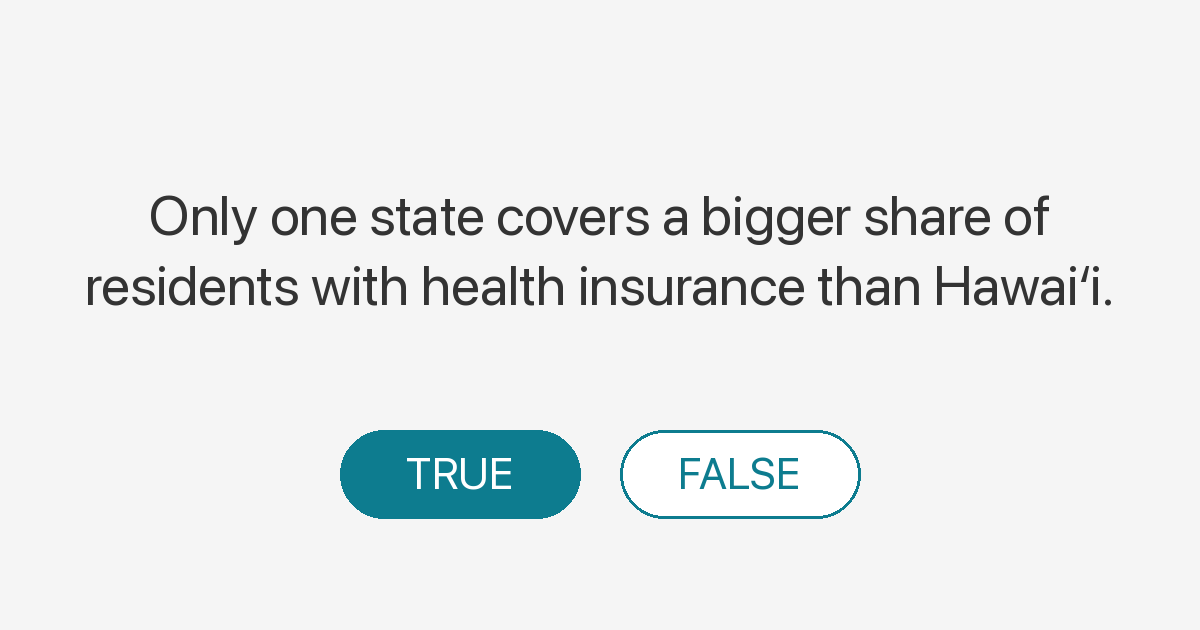
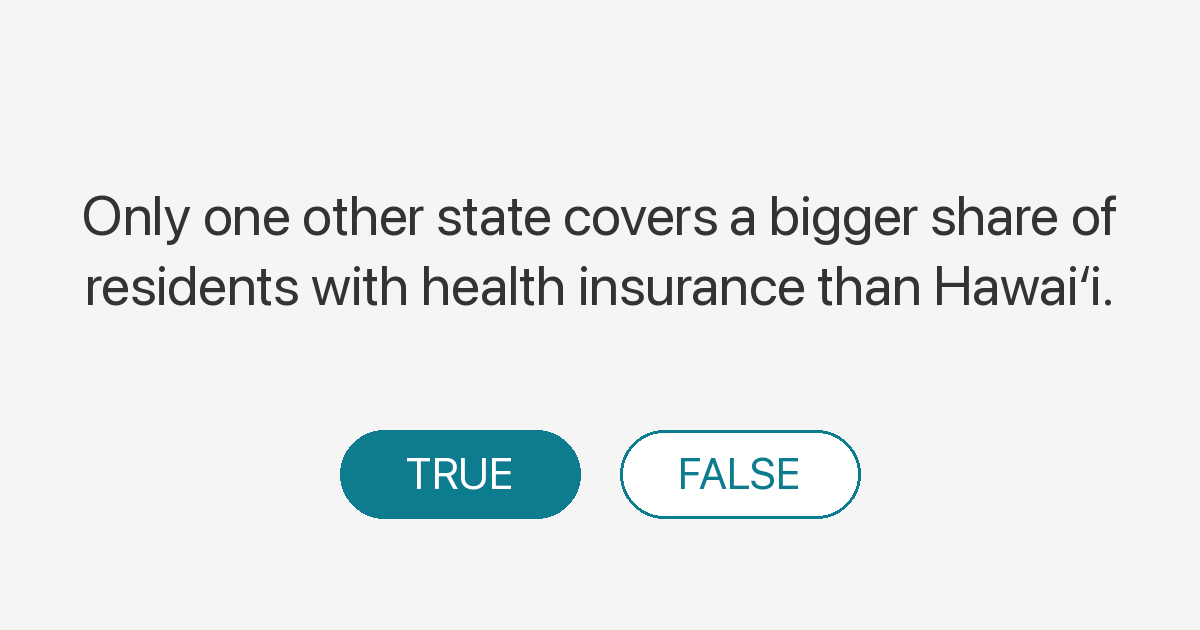
qotd q008: "Only one state" -> "Only one other state"
Hawaiʻi is itself one of the states; "one other state" makes the
#2-of-50 framing exact (only one state beats Hawaiʻi, not counting
Hawaiʻi).

Changed region(s): [[0.0617, 0.3016, 0.925, 0.3921]]

diff --git a/q/q008/index.html b/q/q008/index.html
@@ -13,7 +13,7 @@
   <meta name="twitter:card" content="summary_large_image">
   <meta name="twitter:title" content="You know Hawaiʻi?">
   <meta name="twitter:image" content="https://hawaiidashboard.org/assets/og/q/only-one-state-has-higher-health-insurance-coverage-than-hawaii.png">
-  <meta name="description" content="Only one state covers a bigger share of residents with health insurance than Hawaiʻi.">
+  <meta name="description" content="Only one other state covers a bigger share of residents with health insurance than Hawaiʻi.">
   <link rel="canonical" href="https://hawaiidashboard.org/q/q008/">
   <script>window.location.replace("/?from_q=q008");</script>
   <meta http-equiv="refresh" content="0;url=https://hawaiidashboard.org/?from_q=q008">
@@ -22,7 +22,7 @@
   <p>Redirecting to <a href="https://hawaiidashboard.org/?from_q=q008">You know Hawaiʻi?</a>&hellip;</p>
   <article style="max-width:640px;margin:2rem auto;padding:0 1rem;font-family:-apple-system,BlinkMacSystemFont,'Segoe UI',sans-serif;color:#333;line-height:1.55;">
     <p style="color:#888;font-size:0.875rem;text-transform:uppercase;letter-spacing:0.05em;margin:0;">You know Hawaiʻi?</p>
-    <p style="margin:0.25rem 0 1rem;font-size:1.25rem;font-weight:600;">Only one state covers a bigger share of residents with health insurance than Hawaiʻi.</p>
+    <p style="margin:0.25rem 0 1rem;font-size:1.25rem;font-weight:600;">Only one other state covers a bigger share of residents with health insurance than Hawaiʻi.</p>
     <p><strong>True.</strong> Hawaiʻi has the #2 lowest value among 50 states in 2024 (3.5%).</p>
     <p style="margin-top:1.5rem;"><a href="/r/uninsured_rate/">See the data &rarr;</a></p>
   </article>

diff --git a/js/questions.js b/js/questions.js
@@ -599,7 +599,7 @@ const QOTD_QUESTIONS = [
   {
       "id": "q008",
       "slug": "only-one-state-has-higher-health-insurance-coverage-than-hawaii",
-      "claim": "Only one state covers a bigger share of residents with health insurance than Hawaiʻi.",
+      "claim": "Only one other state covers a bigger share of residents with health insurance than Hawaiʻi.",
       "correct": true,
       "answer": "Hawaiʻi has the #2 lowest value among 50 states in 2024 (3.5%).",
       "chartUrl": "/r/uninsured_rate/",

diff --git a/index.html b/index.html
@@ -369,7 +369,7 @@
     <script src="js/export.js?v=20260515a"></script>
     <script src="js/share-menu.js?v=20260527a"></script>
     <script src="js/modal.js?v=20260518a"></script>
-    <script src="js/questions.js?v=20260530c"></script>
+    <script src="js/questions.js?v=20260530d"></script>
     <script src="js/qotd.js?v=20260518a"></script>
     <script src="js/app.js?v=20260515a"></script>
 </body>
